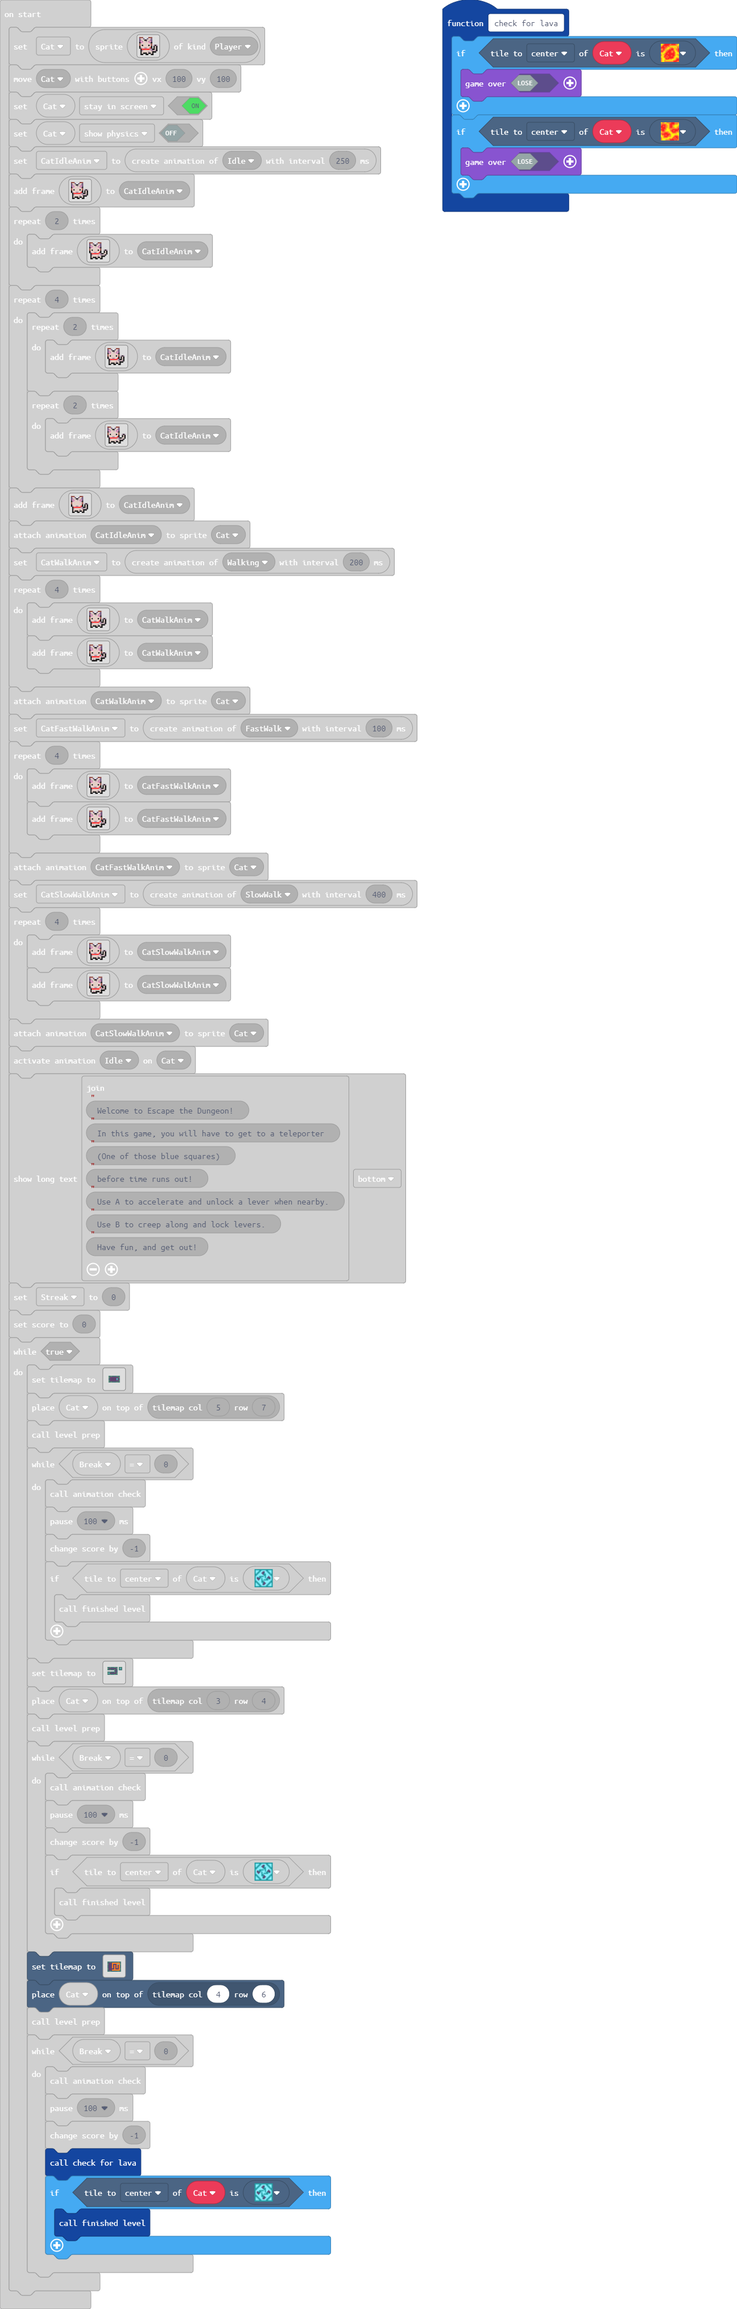
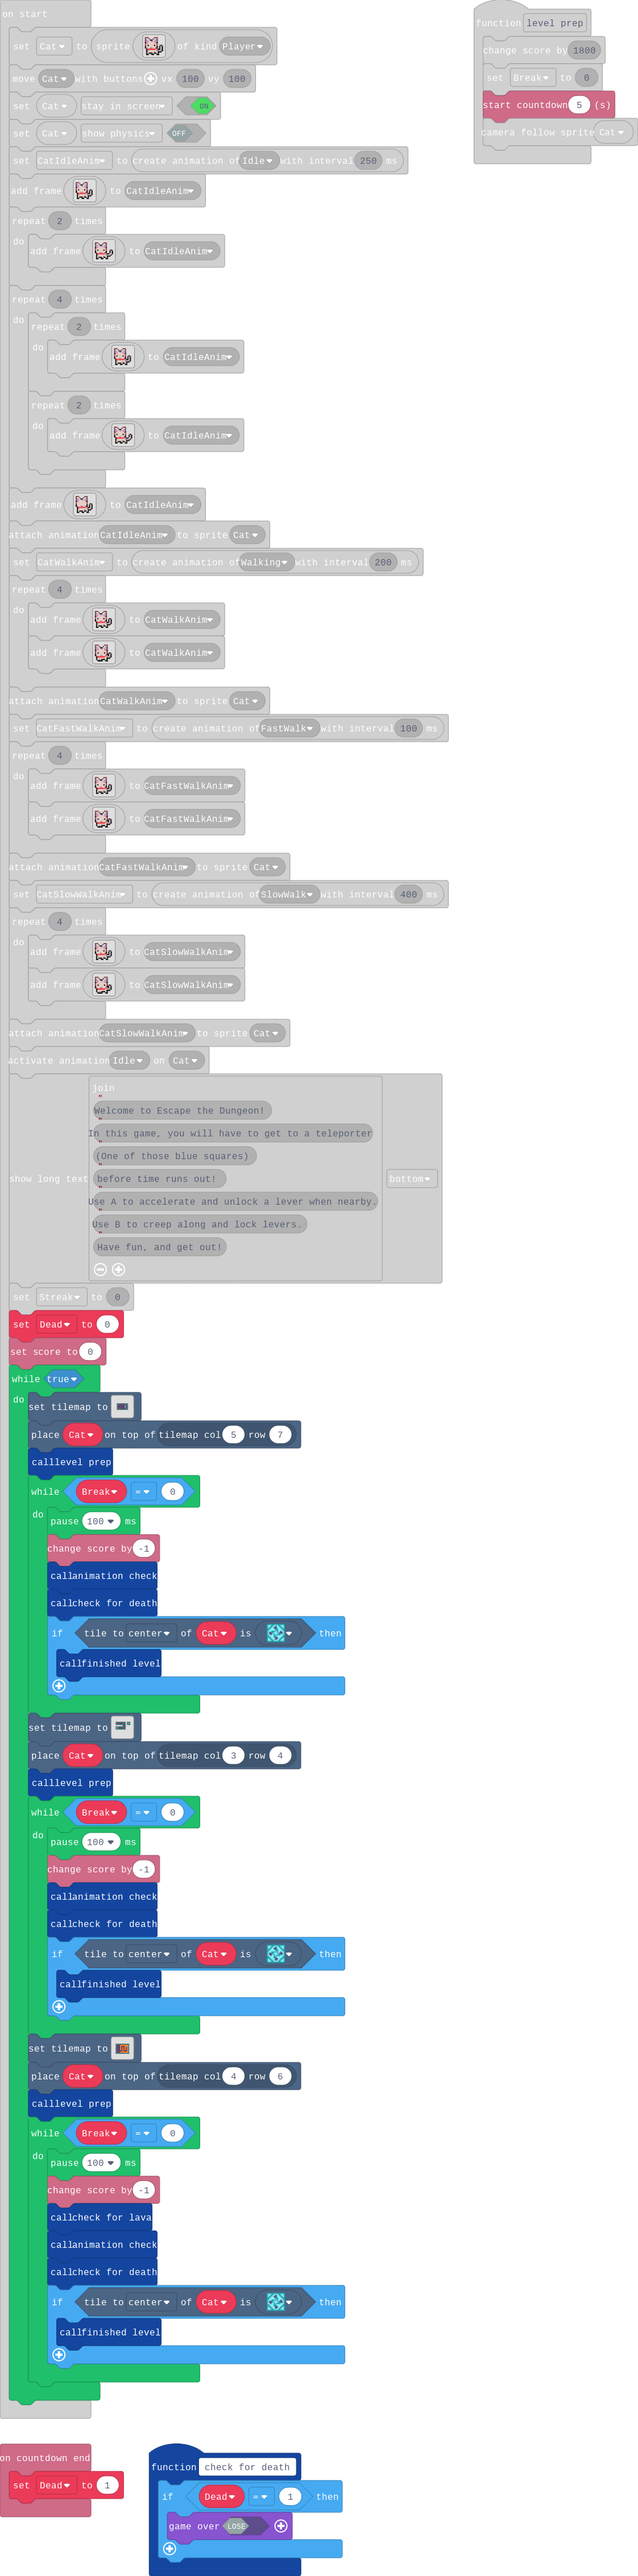
Update main.blocks, main.ts

diff --git a/main.ts b/main.ts
@@ -26,10 +26,15 @@ namespace myTiles {
 . . . . . . . . . . . . . . . . 
 `
 }
+function check_for_death () {
+    if (Dead == 1) {
+        game.over(false)
+    }
+}
 function level_prep () {
     info.changeScoreBy(1800)
     Break = 0
-    info.startCountdown(180)
+    info.startCountdown(5)
     scene.cameraFollowSprite(Cat)
 }
 controller.B.onEvent(ControllerButtonEvent.Pressed, function () {
@@ -56,6 +61,9 @@ function finished_level () {
     game.showLongText("Level " + Streak + " Complete. (+1000) " + "Streak: " + Streak + " (+" + Streak * 1000 + ") " + "Total: " + (1000 + (info.score() + Streak * 1000)), DialogLayout.Bottom)
     info.changeScoreBy(1000 + Streak * 1000)
 }
+info.onCountdownEnd(function () {
+    Dead = 1
+})
 function animation_check () {
     if (Cat.vx == 0 && Cat.vy == 0) {
         animation.setAction(Cat, ActionKind.Idle)
@@ -101,6 +109,7 @@ controller.A.onEvent(ControllerButtonEvent.Released, function () {
     controller.moveSprite(Cat, 100, 100)
 })
 let Break = 0
+let Dead = 0
 let Streak = 0
 let Cat: Sprite = null
 Cat = sprites.create(img`
@@ -323,6 +332,7 @@ animation.attachAnimation(Cat, CatSlowWalkAnim)
 animation.setAction(Cat, ActionKind.Idle)
 game.showLongText("Welcome to Escape the Dungeon! " + "In this game, you will have to get to a teleporter " + "(One of those blue squares) " + "before time runs out! " + "Use A to accelerate and unlock a lever when nearby. " + "Use B to creep along and lock levers. " + "Have fun, and get out!", DialogLayout.Bottom)
 Streak = 0
+Dead = 0
 info.setScore(0)
 while (true) {
     tiles.setTilemap(tiles.createTilemap(
@@ -351,9 +361,10 @@ while (true) {
     tiles.placeOnTile(Cat, tiles.getTileLocation(5, 7))
     level_prep()
     while (Break == 0) {
-        animation_check()
         pause(100)
         info.changeScoreBy(-1)
+        animation_check()
+        check_for_death()
         if (Cat.tileKindAt(TileDirection.Center, sprites.dungeon.collectibleInsignia)) {
             finished_level()
         }
@@ -384,9 +395,10 @@ while (true) {
     tiles.placeOnTile(Cat, tiles.getTileLocation(3, 4))
     level_prep()
     while (Break == 0) {
-        animation_check()
         pause(100)
         info.changeScoreBy(-1)
+        animation_check()
+        check_for_death()
         if (Cat.tileKindAt(TileDirection.Center, sprites.dungeon.collectibleInsignia)) {
             finished_level()
         }
@@ -417,10 +429,11 @@ while (true) {
     tiles.placeOnTile(Cat, tiles.getTileLocation(4, 6))
     level_prep()
     while (Break == 0) {
-        animation_check()
         pause(100)
         info.changeScoreBy(-1)
         check_for_lava()
+        animation_check()
+        check_for_death()
         if (Cat.tileKindAt(TileDirection.Center, sprites.dungeon.collectibleInsignia)) {
             finished_level()
         }
